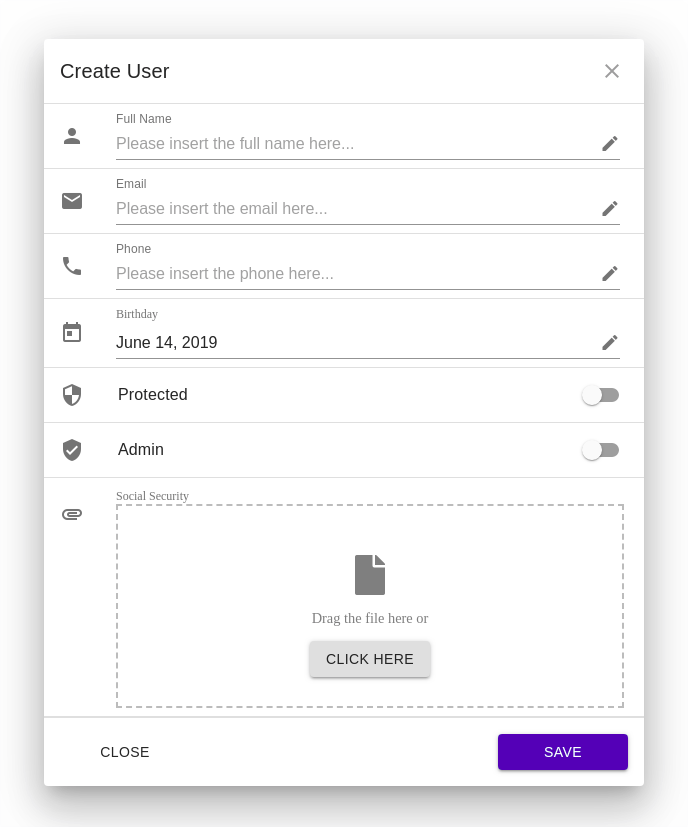
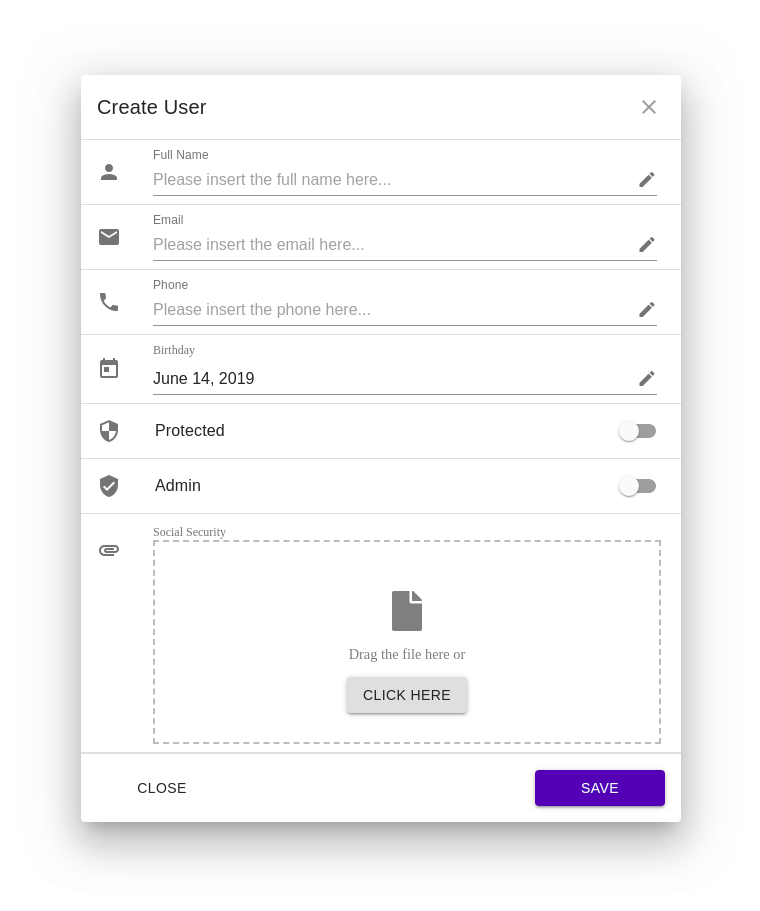
Add README.md
Fix #14

Changed region(s): [[0.0305, 0.0605, 0.9767, 0.9976]]

diff --git a/bin/getComponentsTable.js b/bin/getComponentsTable.js
@@ -1,0 +1,13 @@
+const table = require("markdown-table");
+const getComponents = require("../devtools/getComponents");
+const components = getComponents();
+const getURL = (component) => {
+  return `https://zerosoft.dev/mui-form-fields/${component}`;
+}
+const baseTable = components.map(c => {
+  return [`[\`<${c}/>\`](${getURL(c)})`];
+});
+const componentsTable = [
+  ["Component"],
+].concat(baseTable);
+console.log(table(componentsTable))

diff --git a/devtools/getComponents.js b/devtools/getComponents.js
@@ -1,0 +1,11 @@
+const fs = require("fs");
+const path = require("path");
+
+module.exports = () => {
+  const componentsPath = path.resolve(__dirname, "..", "src", "components");
+  return fs.readdirSync(componentsPath).filter(p => {
+    return p.match(/\.tsx/);
+  }).map(p => {
+    return p.replace(/\.tsx/g, "");
+  });
+};

diff --git a/README.md b/README.md
@@ -1,6 +1,13 @@
 #  MUI Form Fields
 
+**Warning: this repository is currently to be officially released**
+
 Material UI + FinalForm Fields, packaged and ready to go! :package:
+
+
+MUI Form Fields help you build beautiful material-ui components with the
+mninimal amount of code possible. This way you can keep focusing on your logic.
+:dart:
 
 ## Installation
 
@@ -10,11 +17,62 @@ $ npm i --save mui-form-fields
 
 ## Examples
 
-TBD
+This form:
+
+<div align="center">
+  <img src="https://raw.githubusercontent.com/0soft/mui-form-fields/master/assets/images/example_dialog.png" />
+</div>
+
+is generated by this code:
+
+```javascript
+  <FormDialog
+    size="sm"
+    title="Create User"
+    onClose={() => console.log("close")}
+    onSubmit={(...args) => console.log(args)}
+    open
+  >
+    <FormTextField icon="person" name="name" label="Full Name"/>
+    <Divider/>
+    <FormTextField icon="mail" name="email" label="Email"/>
+    <Divider/>
+    <FormPhoneField name="phone" label="Phone"/>
+    <Divider/>
+    <FormDateField icon="today" name="birthday" label="Birthday"/>
+    <Divider/>
+    <FormSwitchField icon="security" name="protected" label="Protected"/>
+    <Divider/>
+    <FormSwitchField icon="verified_user" name="admin" label="Admin"/>
+    <Divider/>
+    <FormFileUploadField icon="attachment" name="identification" label="Social Security"/>
+    <Divider/>
+  </FormDialog>
+```
 
 ## Usage
 
 We currently have the following FormFields available:
+| Component                                                                            |
+| ------------------------------------------------------------------------------------ |
+| [`<FormButtonField/>`](https://zerosoft.dev/mui-form-fields/FormButtonField)         |
+| [`<FormChipField/>`](https://zerosoft.dev/mui-form-fields/FormChipField)             |
+| [`<FormDateField/>`](https://zerosoft.dev/mui-form-fields/FormDateField)             |
+| [`<FormDateRangeField/>`](https://zerosoft.dev/mui-form-fields/FormDateRangeField)   |
+| [`<FormDateTimeField/>`](https://zerosoft.dev/mui-form-fields/FormDateTimeField)     |
+| [`<FormDialog/>`](https://zerosoft.dev/mui-form-fields/FormDialog)                   |
+| [`<FormField/>`](https://zerosoft.dev/mui-form-fields/FormField)                     |
+| [`<FormFileUploadField/>`](https://zerosoft.dev/mui-form-fields/FormFileUploadField) |
+| [`<FormIntegerField/>`](https://zerosoft.dev/mui-form-fields/FormIntegerField)       |
+| [`<FormMoneyField/>`](https://zerosoft.dev/mui-form-fields/FormMoneyField)           |
+| [`<FormNumberField/>`](https://zerosoft.dev/mui-form-fields/FormNumberField)         |
+| [`<FormPercentageField/>`](https://zerosoft.dev/mui-form-fields/FormPercentageField) |
+| [`<FormPhoneField/>`](https://zerosoft.dev/mui-form-fields/FormPhoneField)           |
+| [`<FormReadOnlyField/>`](https://zerosoft.dev/mui-form-fields/FormReadOnlyField)     |
+| [`<FormShowField/>`](https://zerosoft.dev/mui-form-fields/FormShowField)             |
+| [`<FormSwitchField/>`](https://zerosoft.dev/mui-form-fields/FormSwitchField)         |
+| [`<FormTextField/>`](https://zerosoft.dev/mui-form-fields/FormTextField)             |
+| [`<FormWeekField/>`](https://zerosoft.dev/mui-form-fields/FormWeekField)             |
 
 Click on each of them to get more details about the usage of each of them.
 
